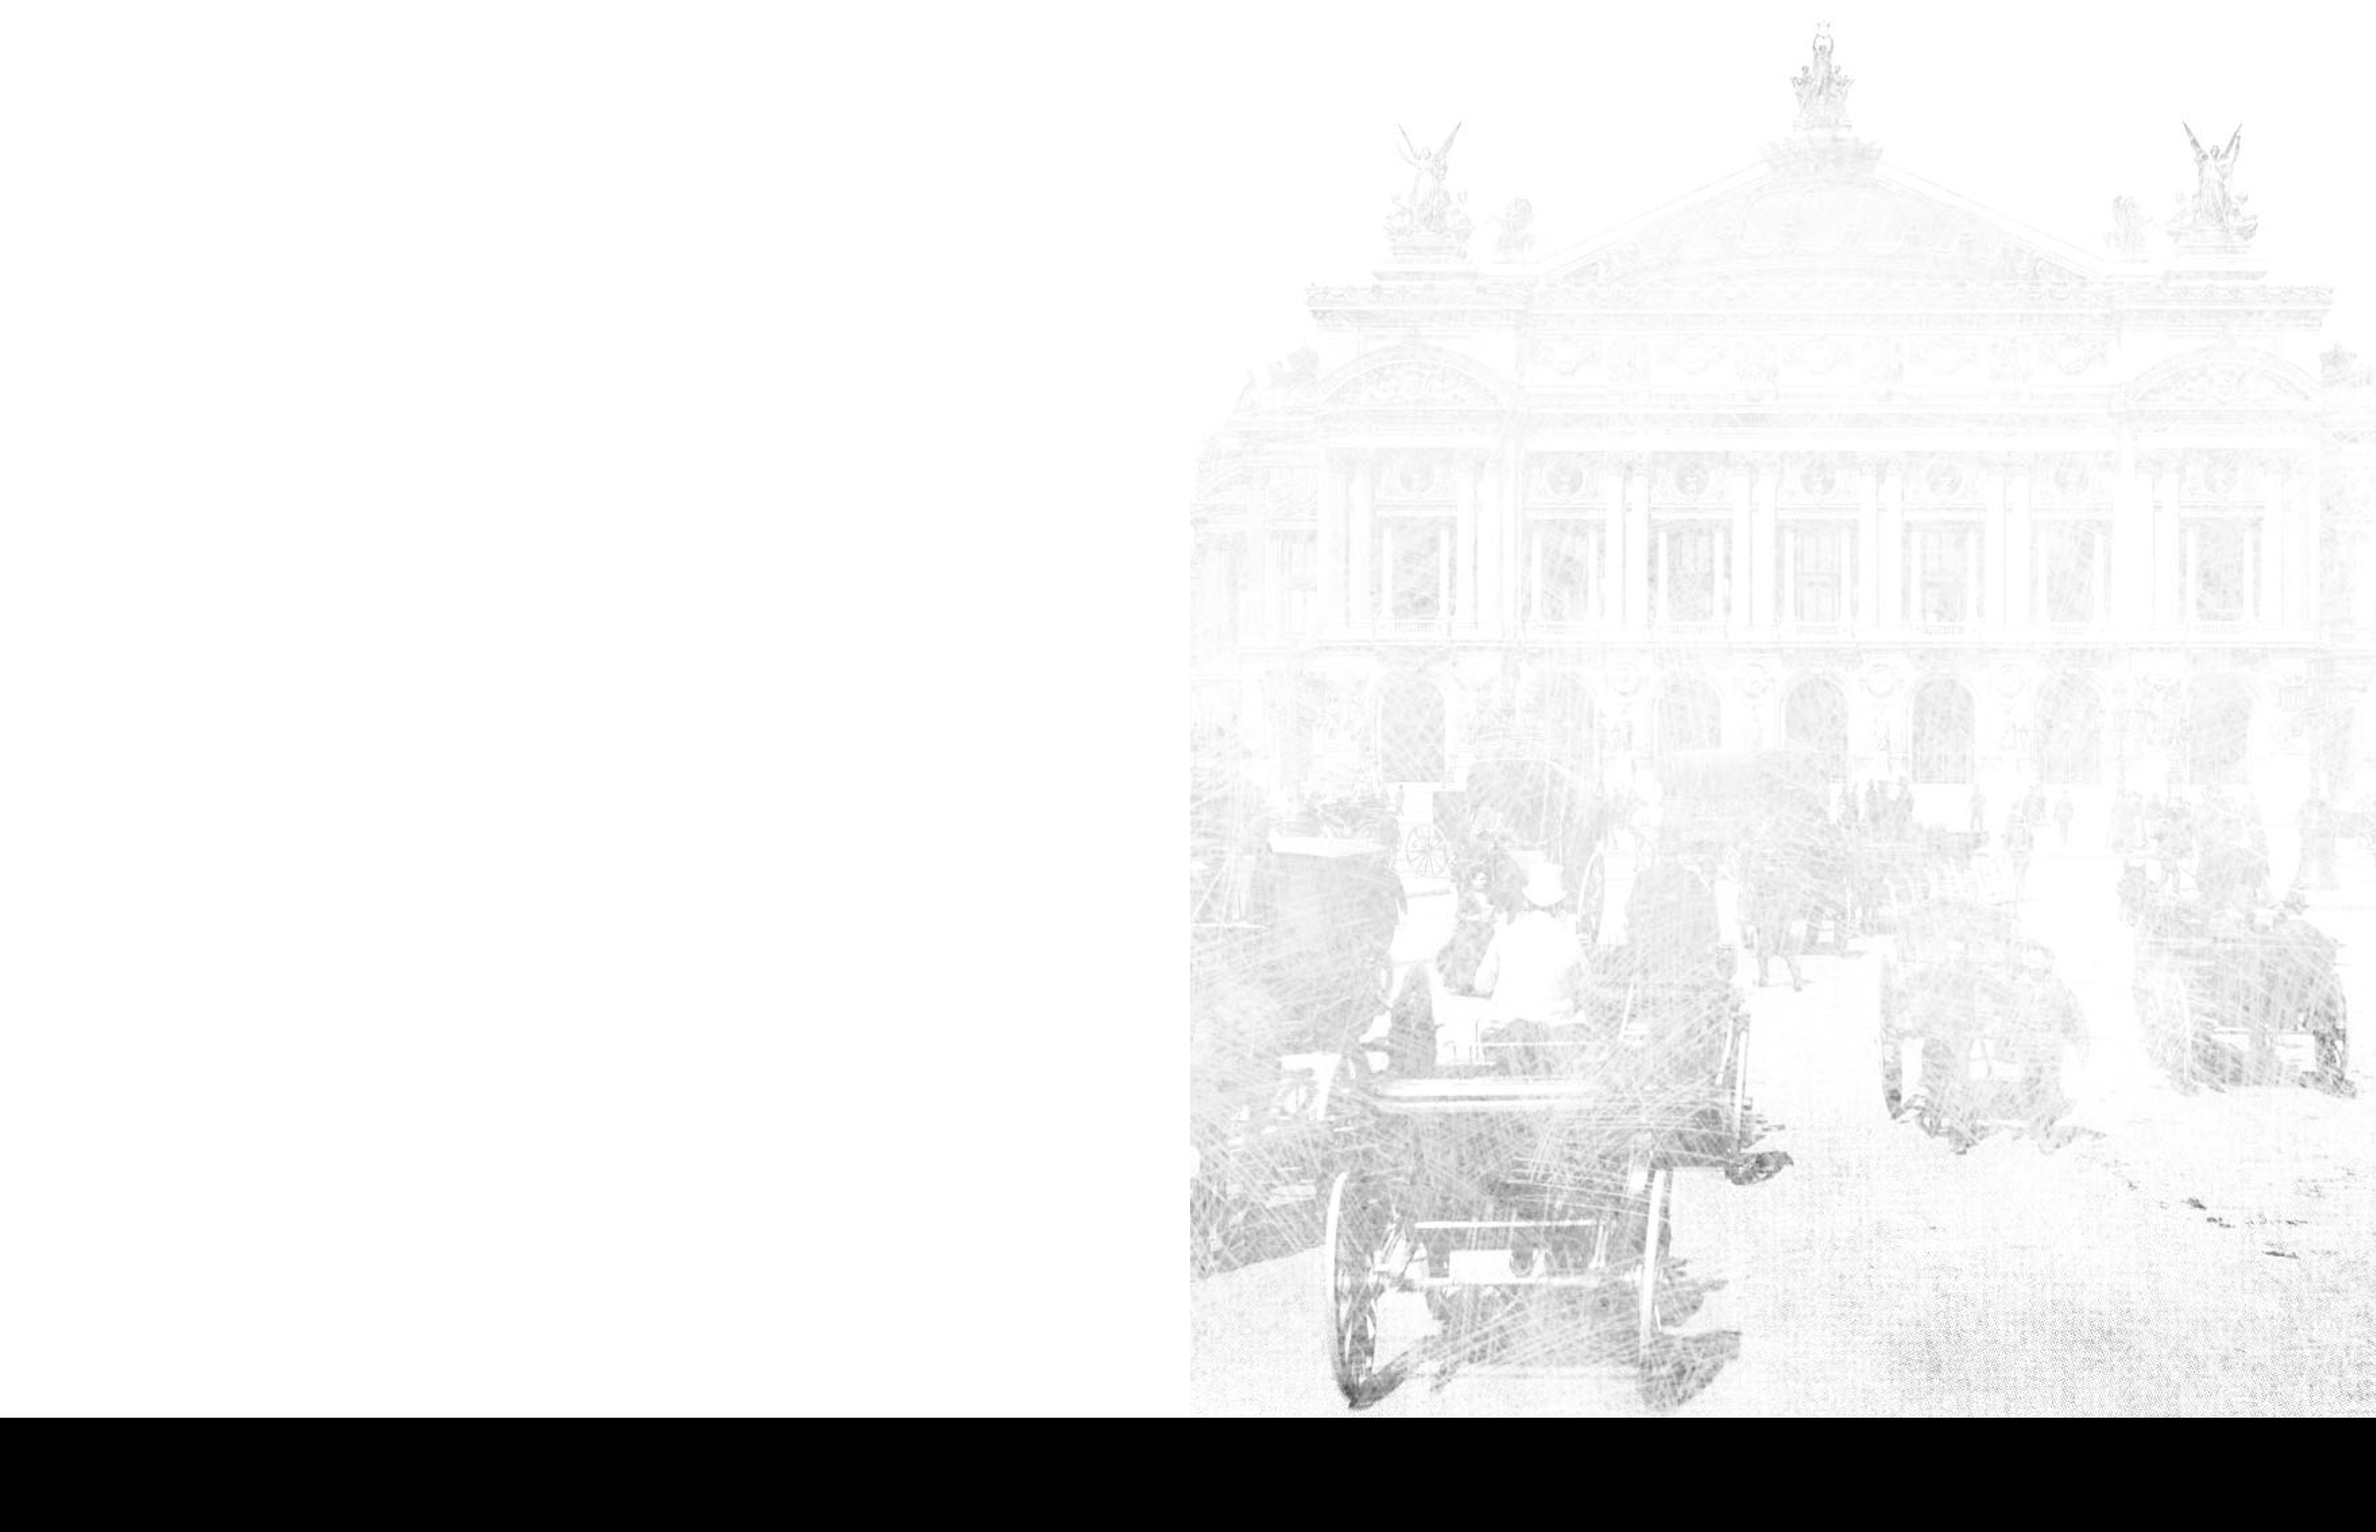
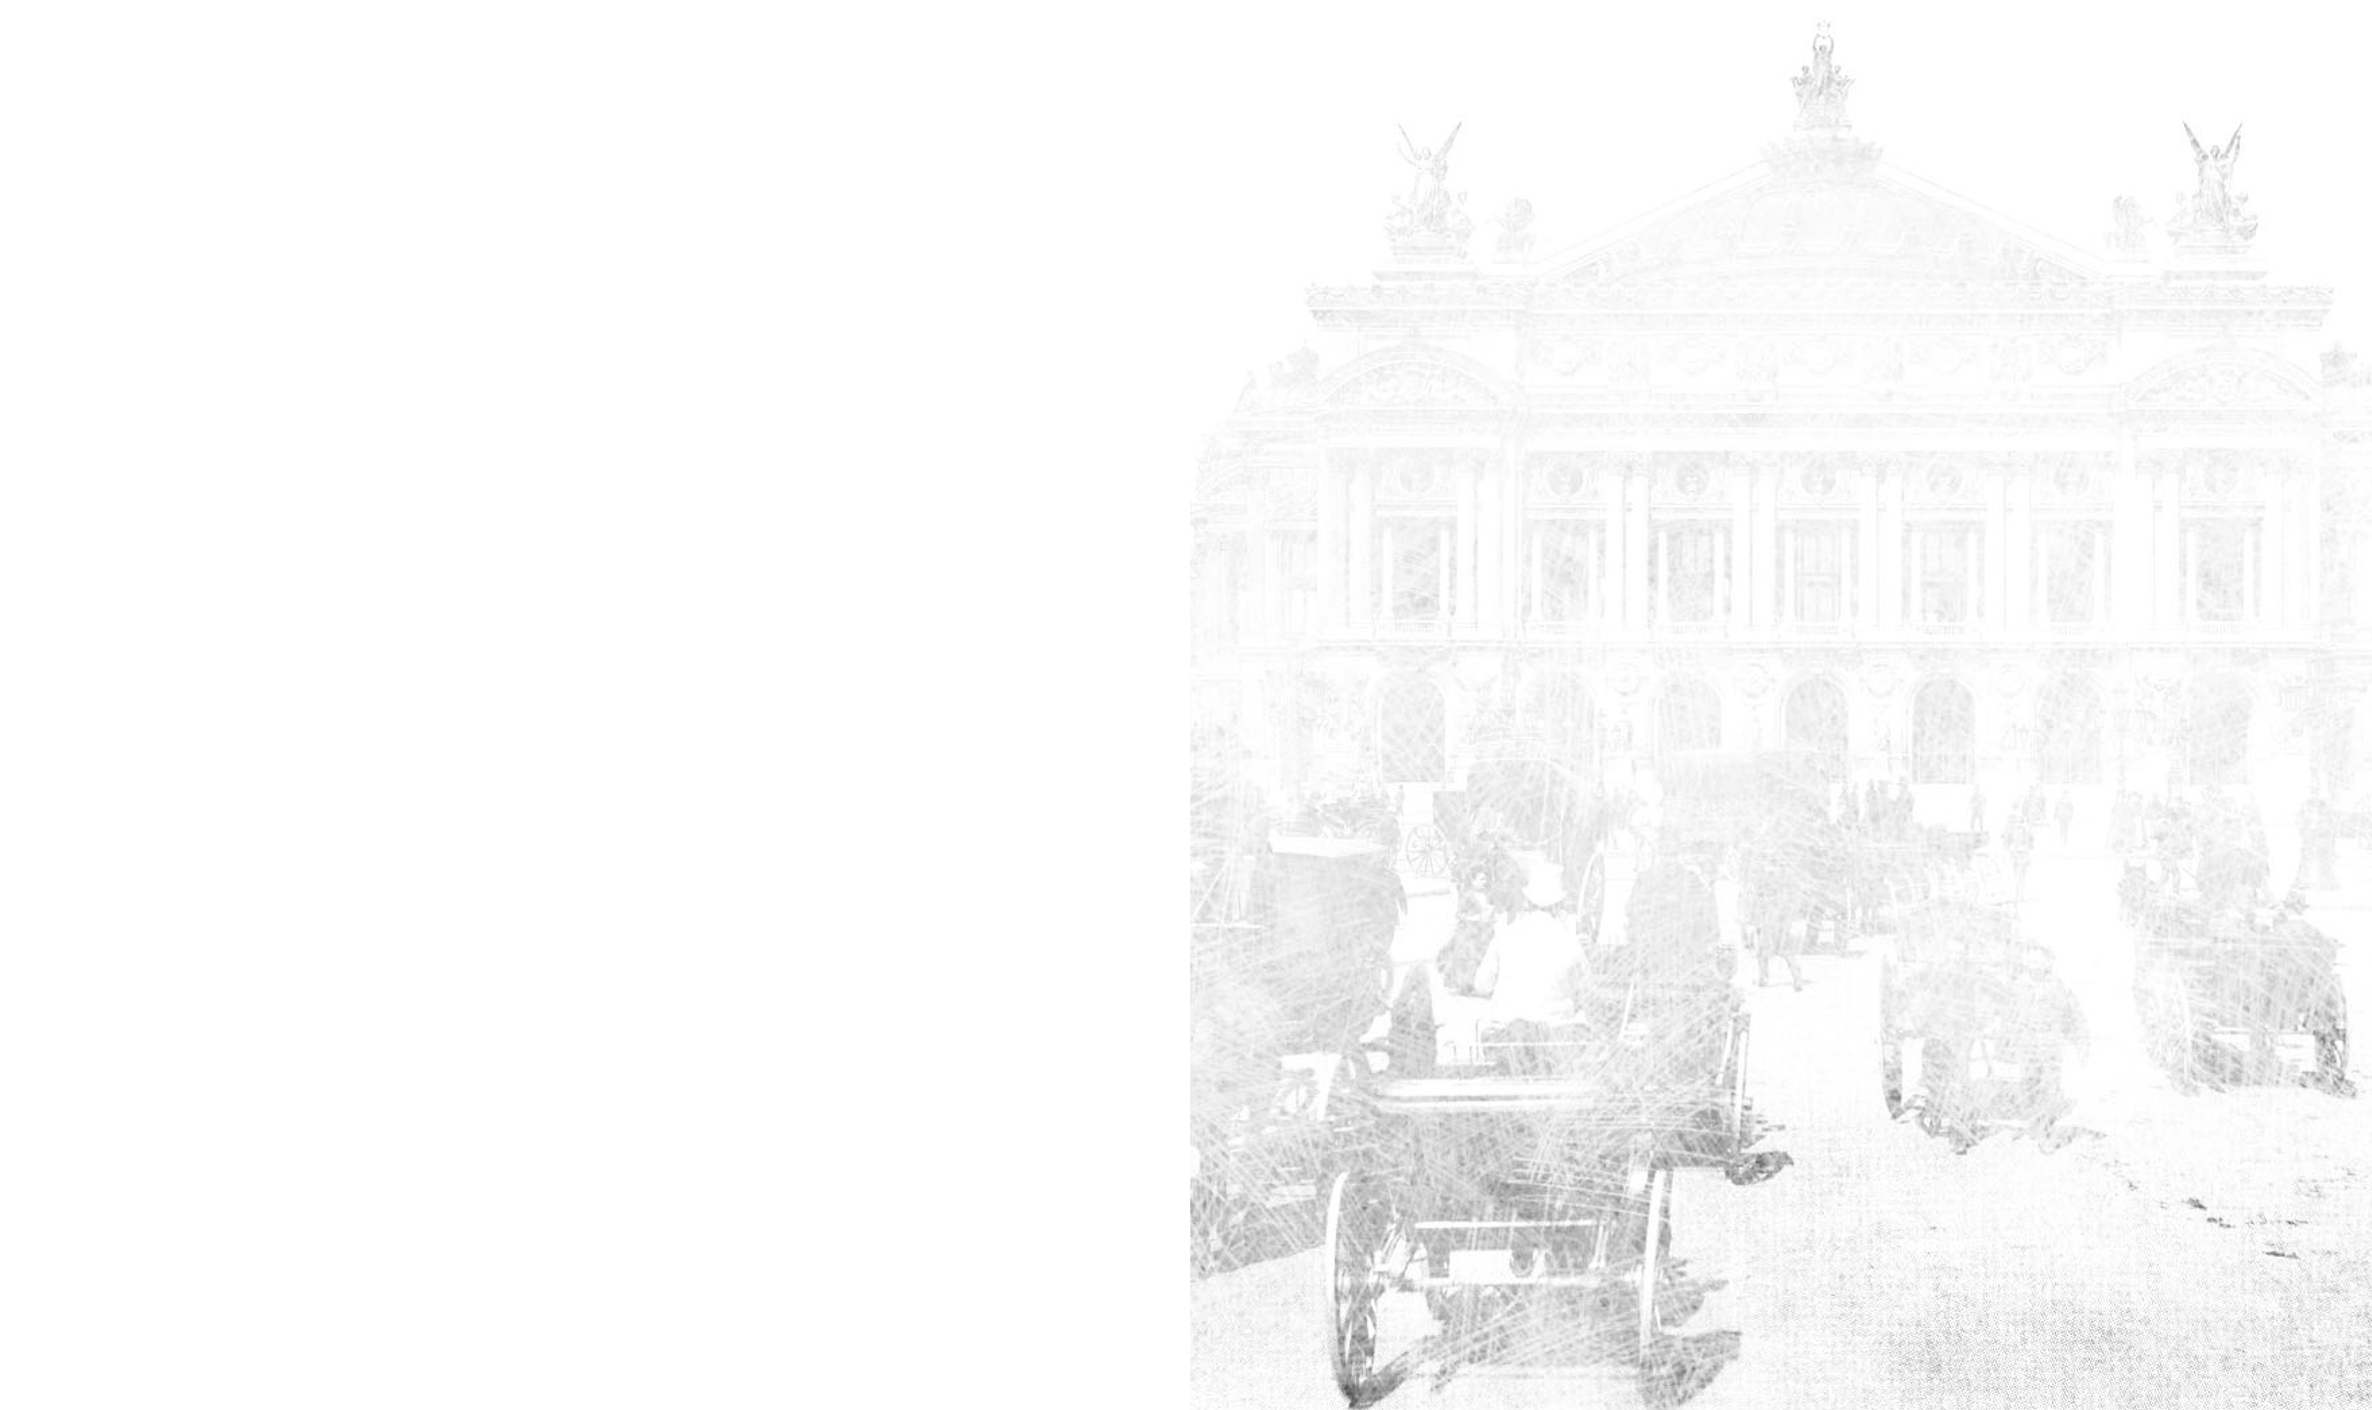
add stylesheet

diff --git a/src/main/webapp/WEB-INF/views/composer/aboutComposer.html b/src/main/webapp/WEB-INF/views/composer/aboutComposer.html
@@ -14,8 +14,8 @@
             <div class="content cMain">
                 <div class="left">
                     <div class="l1"><p th:text="${composer.getName()}"></p></div>
-                    <div class="l2"><p th:text="${composer.getEpoch()}"></p></div>
-                    <div class="l3"><p th:text="${composer.getDateOfBirth()}"></p></div>
+                    <div class="l2"><p th:text="${'Эпоха - ' + composer.getEpoch()+ ' век'}"></p></div>
+                    <div class="l3"><p>Дата рождения:</p><p class ="mainText" th:text="${composer.getDateOfBirth()}"></p></div>
                     <div class="base">
                         <div class="circle cStart"></div>
                         <div class="line"></div>
@@ -26,14 +26,14 @@
                         <div class="line"></div>
                         <div class="circle"></div>
                     </div>
-                    <div class="l4"><p th:text="${composer.getBirthPlace()}"></p></div>
-                    <div class="l5"><p th:text="${composer.getActivityYears()}"></p></div>
-                    <div class="l6"><p th:text="${composer.getDateOfDeath()}"></p></div>
-                    <div class="l7"><p th:text="${composer.getBurialPlace()}"></p></div>
+                    <div class="l4"><p>Место рождения:</p><p class ="mainText" th:text="${composer.getBirthPlace()}"></p></div>
+                    <div class="l5"><p>Годы активности:</p><p class ="mainText" th:text="${composer.getActivityYears()}"></p></div>
+                    <div class="l6"><p>Дата/Причина смерти:</p><p class ="mainText" th:text="${composer.getDateOfDeath()}"></p></div>
+                    <div class="l7"><p>Место смерти/Похоронен:</p><p class ="mainText" th:text="${composer.getBurialPlace()}"></p></div>
                 </div>
                 <div class="center">
                     <div class="c1">фото, пока не работает</div>
-                    <div class="c2"><p th:text="${composer.getComposerQuote()}"></p></div>
+                    <div class="c2"><p>Цитаты композитора:</p><em><p class ="mainText" th:text="${composer.getComposerQuote()}"></p></em></div>
                     <div class="c3">автограф, пока не работает</div>
                     <div class="c4"><p>ТВОРЧЕСТВО</p></div>
                 </div>
@@ -47,10 +47,10 @@
                         <div class="line"></div>
                         <div class="circle"></div>
                     </div>
-                    <div class="r1"><p th:text="${composer.getBiography()}"></p></div>
-                    <div class="r2"><p th:text="${composer.getEnvironment()}"></p></div>
-                    <div class="r3"><p th:text="${composer.getFacts()}"></p></div>
-                    <div class="r4"><p th:text="${composer.getMistake()}"></p></div>
+                    <div class="r1"><p>Биография:</p><p class ="mainText" th:text="${composer.getBiography()}"></p></div>
+                    <div class="r2"><p>Окружение:</p><p class ="mainText" th:text="${composer.getEnvironment()}"></p></div>
+                    <div class="r3"><p>Интересные факты:</p><p class ="mainText" th:text="${composer.getFacts()}"></p></div>
+                    <div class="r4"><p>Известные заблуждения:</p><p class ="mainText" th:text="${composer.getMistake()}"></p></div>
                 </div>
             </div>
         </div>

diff --git a/src/main/resources/assets/css/aboutComposer.css b/src/main/resources/assets/css/aboutComposer.css
@@ -1,3 +1,5 @@
+@import url('https://fonts.googleapis.com/css2?family=Raleway&display=swap');
+
 *{
     margin: 0;
     padding: 0;
@@ -5,6 +7,13 @@
 }
 
 
+
+p{
+    font-family: 'Raleway', sans-serif;
+    font-size: 20px;
+    font-weight: 600;
+    line-height: 22px;
+}
 
 .bg{
     width: 100vw;
@@ -20,7 +29,6 @@
 .content{
     width: 1226px;
     height: 100%;
-
     margin: 0 auto;
 }
 .cHeader{
@@ -42,17 +50,37 @@
 
 .l1{
     float: right;
-    border: 1px dotted rgb(44, 44, 44);
     width: 100%;
     height: 141px;
 }
 
+.l1 p{
+    font-family: 'Raleway', sans-serif;
+    font-weight: 700;
+    font-size: 40px;
+    line-height: 47px;
+    text-transform: uppercase;
+    display: table-caption;
+
+}
+
 .l2{
     float: right;
-    border: 1px dotted rgb(44, 44, 44);
     width: 100%;
     height: 23px;
 }
+
+.l2 p{
+    font-weight: 700;
+    font-size: 20px;
+    color: #930000;
+}
+
+.mainText{
+    font-size: 18px;
+    font-weight: 500;
+}
+
 
 .base{   
     float: left;
@@ -90,7 +118,6 @@
 .l3{
     float: right;
     margin-top: 66px;
-    border: 1px dotted rgb(44, 44, 44);
     width: 318px;
     height: 45px;
 }
@@ -98,30 +125,28 @@
 .l4{
     float: right;
     margin-top: 42px;
-    border: 1px dotted rgb(44, 44, 44);
     width: 318px;
     height: 67px;
 }
 .l5{
     float: right;
     margin-top: 20px;
-    border: 1px dotted rgb(44, 44, 44);
     width: 318px;
     height: 45px;
 }
 .l6{
     float: right;
     margin-top: 42px;
-    border: 1px dotted rgb(44, 44, 44);
     width: 318px;
     height: 67px;
+    overflow-y: auto;
 }
 .l7{
     float: right;
     margin-top: 20px;
-    border: 1px dotted rgb(44, 44, 44);
     width: 318px;
     height: 89px;
+    overflow-y: auto;
 }
 .right{
 
@@ -131,30 +156,30 @@
 }
 .r1{
     float: right;
-    border: 1px dotted rgb(44, 44, 44);
     width: 318px;
     height: 441px; 
+    overflow-y: auto;
 }
 .r2{
     margin-top: 8px;
     float: right;
-    border: 1px dotted rgb(44, 44, 44);
     width: 318px;
     height: 67px;  
+    overflow-y: auto;
 }
 .r3{
     margin-top: 18px;
     float: right;
-    border: 1px dotted rgb(44, 44, 44);
     width: 318px;
     height: 67px;  
+    overflow-y: auto;
 }
 .r4{
     margin-top: 19px;
     float: right;
-    border: 1px dotted rgb(44, 44, 44);
     width: 318px;
     height: 89px;  
+    overflow-y: auto;
 }
 
 .center{
@@ -175,13 +200,11 @@
     background-size: 100%,100%;
 }
 .c2{
-    border: 1px dotted rgb(44, 44, 44); 
     width: 342px;
     height: 133px;
     margin: 33px auto 0 auto;
 }
 .c3{
-    border: 1px dotted rgb(44, 44, 44); 
     width: 342px;
     height: 82px;
     margin: 25px auto 0 auto;
@@ -212,10 +235,12 @@
     width: 100%;
     background-image: url('img/bg2.jpg');
     background-size: 100%,100%;
+    background-repeat: no-repeat;
+    
 }
 
 .footer{
     width: 100%;
     height: 200px;
-    background-color: black;
+    background-color: #C4C4C4;
 }

diff --git a/src/main/webapp/WEB-INF/views/composer/newComposer.html b/src/main/webapp/WEB-INF/views/composer/newComposer.html
@@ -16,7 +16,7 @@
     </div>
     <div class="dateOfBirth">
         когда родился
-        <input type="date" th:field="*{dateOfBirth}">
+        <input type="text" th:field="*{dateOfBirth}">
     </div>
     <div class="birthPlace">
         где родился
@@ -36,6 +36,7 @@
     </div>
     <div class="photo">
         фотокарточка *pic (ПОКА НЕ РАБОТАЕТ)
+        <input type="file">
         <input value ="не трогать" type="text" th:field="*{photo}">
     </div>
     <div class="composerQuote">
@@ -44,6 +45,7 @@
     </div>
     <div class="autograph">
         автография*pic (ПОКА НЕ РАБОТАЕТ)
+        <input type="file">
         <input value ="не трогать" type="text" th:field="*{autograph}">
     </div>
     <div class="biography">
